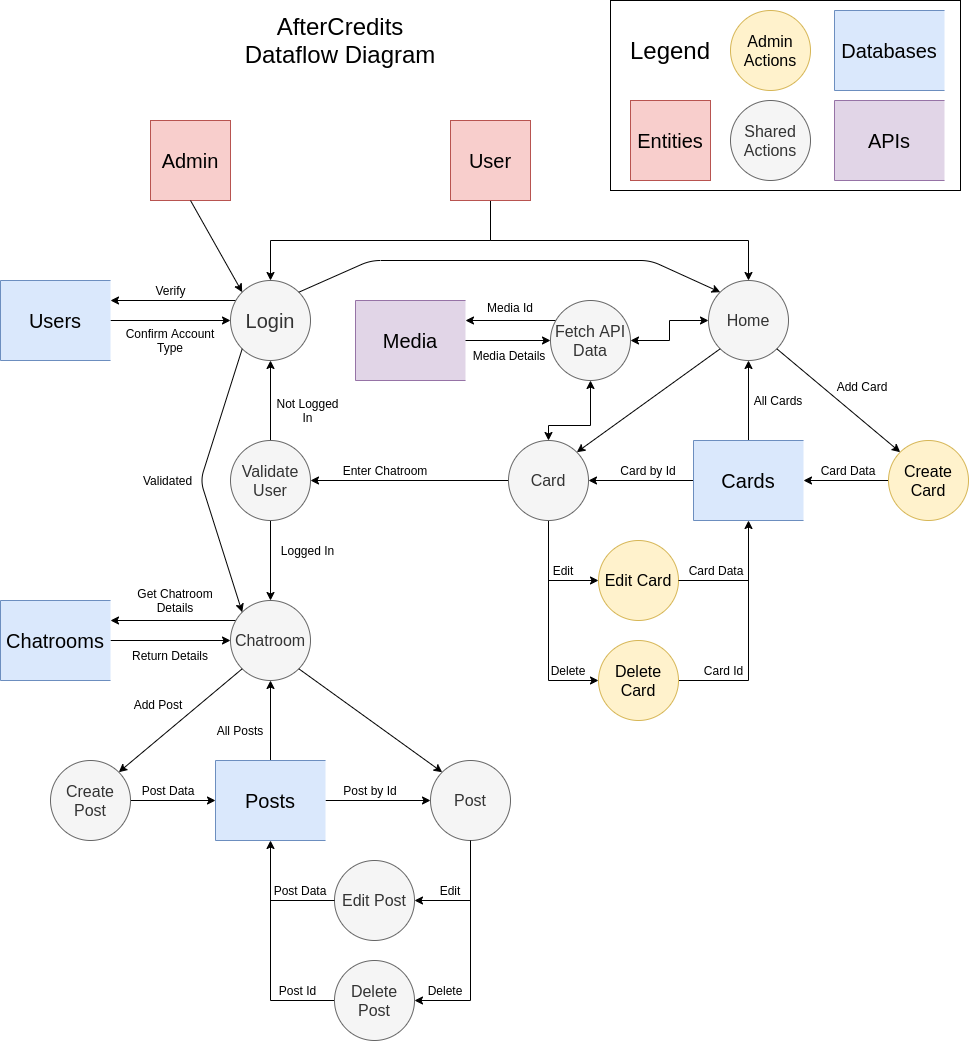
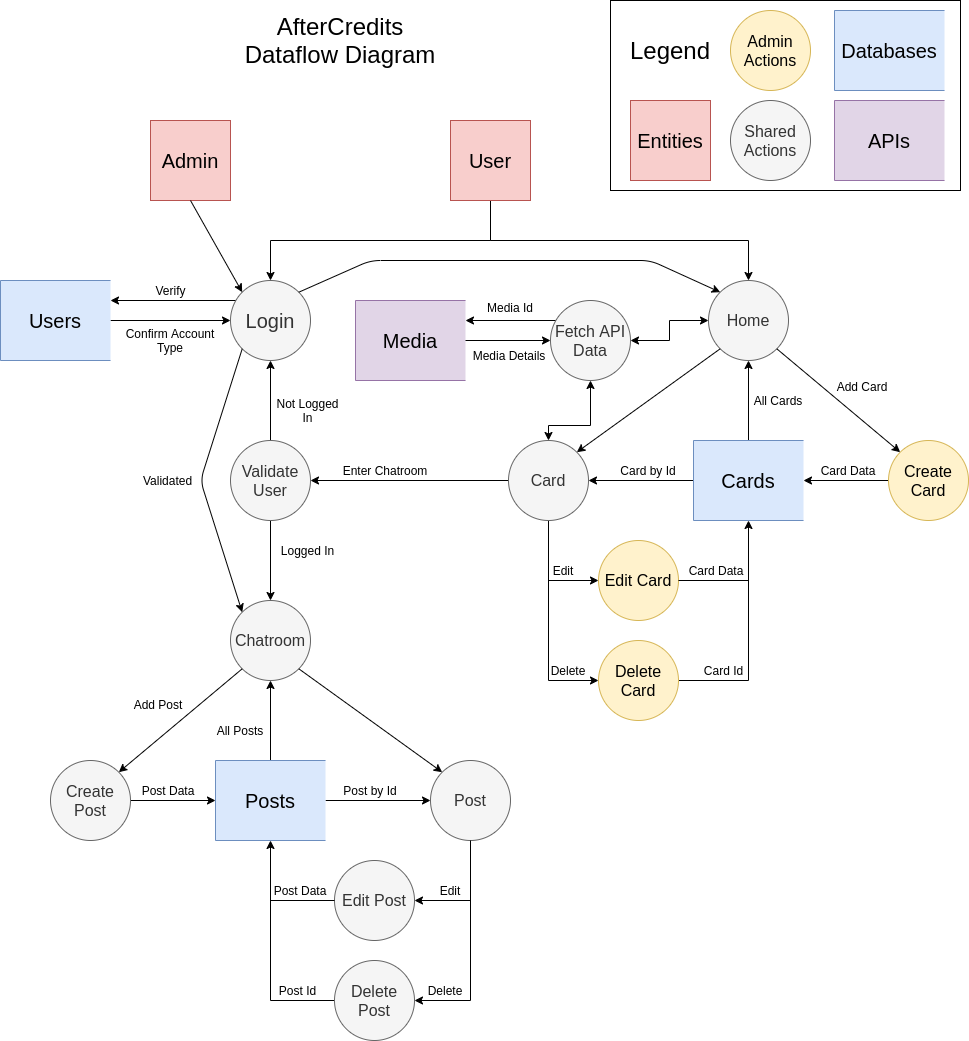
Adjusted dataflow by removing old chatroom database which was unnecessary, final version of App architecture diagram included

diff --git a/README.md b/README.md
@@ -182,7 +182,7 @@ A. SETUP
 
 B. DEVELOPMENT
 
-5. Developers should do all their work on their own branch and NEVER commit to the central repositry (GitHub) master branch directly. Developers should work only on their `Developername` branch. `$ git branch` to see what branch you are on. If you are not on your branch `$ git checkout Developername`
+5. Developers should do all their work on their own branch and NEVER commit to the central repository (GitHub) master branch directly. Developers should work only on their `Developername` branch. `$ git branch` to see what branch you are on. If you are not on your branch `$ git checkout Developername`
 7.  **Code in your Developername branch** and then stage changes in local `$ git add .` and commit changes with `$ git commit -m "meaningful commit description"`.
 8. When the central repository (GitHub) has changed, developers can **pull the GitHub changes into their local** master branch and can do this with `$git pull origin master`. The developer can incorporate changes from the GitHub repo into the branch that they are on by making sure they are on their `Developername` banch and then:  `$ git merge master`.
 9.    **Resolve conflicts locally in VS Code** before you push to GitHub.
@@ -193,10 +193,13 @@ B. DEVELOPMENT
 
 ### R2: DATAFLOW DIAGRAM
 ![Dataflow Diagram](docs/DataflowDiagramT3A2-A.png)
+
 Provides dataflow diagram(s) that strictly follow the standard convensions to clearly identify the processes within your application. Clearly depicts where data is coming from, where it is going and how it is being stored. 
 https://edstem.org/courses/4966/lessons/12821/slides/91792 
 
 ### R3: APPLICATION ARCHITECTURE DIAGRAM
+![Application Architecture Diagram](docs/ApplicationArchitectureDiagramT3A2-A.png)
+
 Shows almost flawless understanding of the high level structure of the app
 https://edstem.org/courses/4966/lessons/12821/slides/91793 
 
